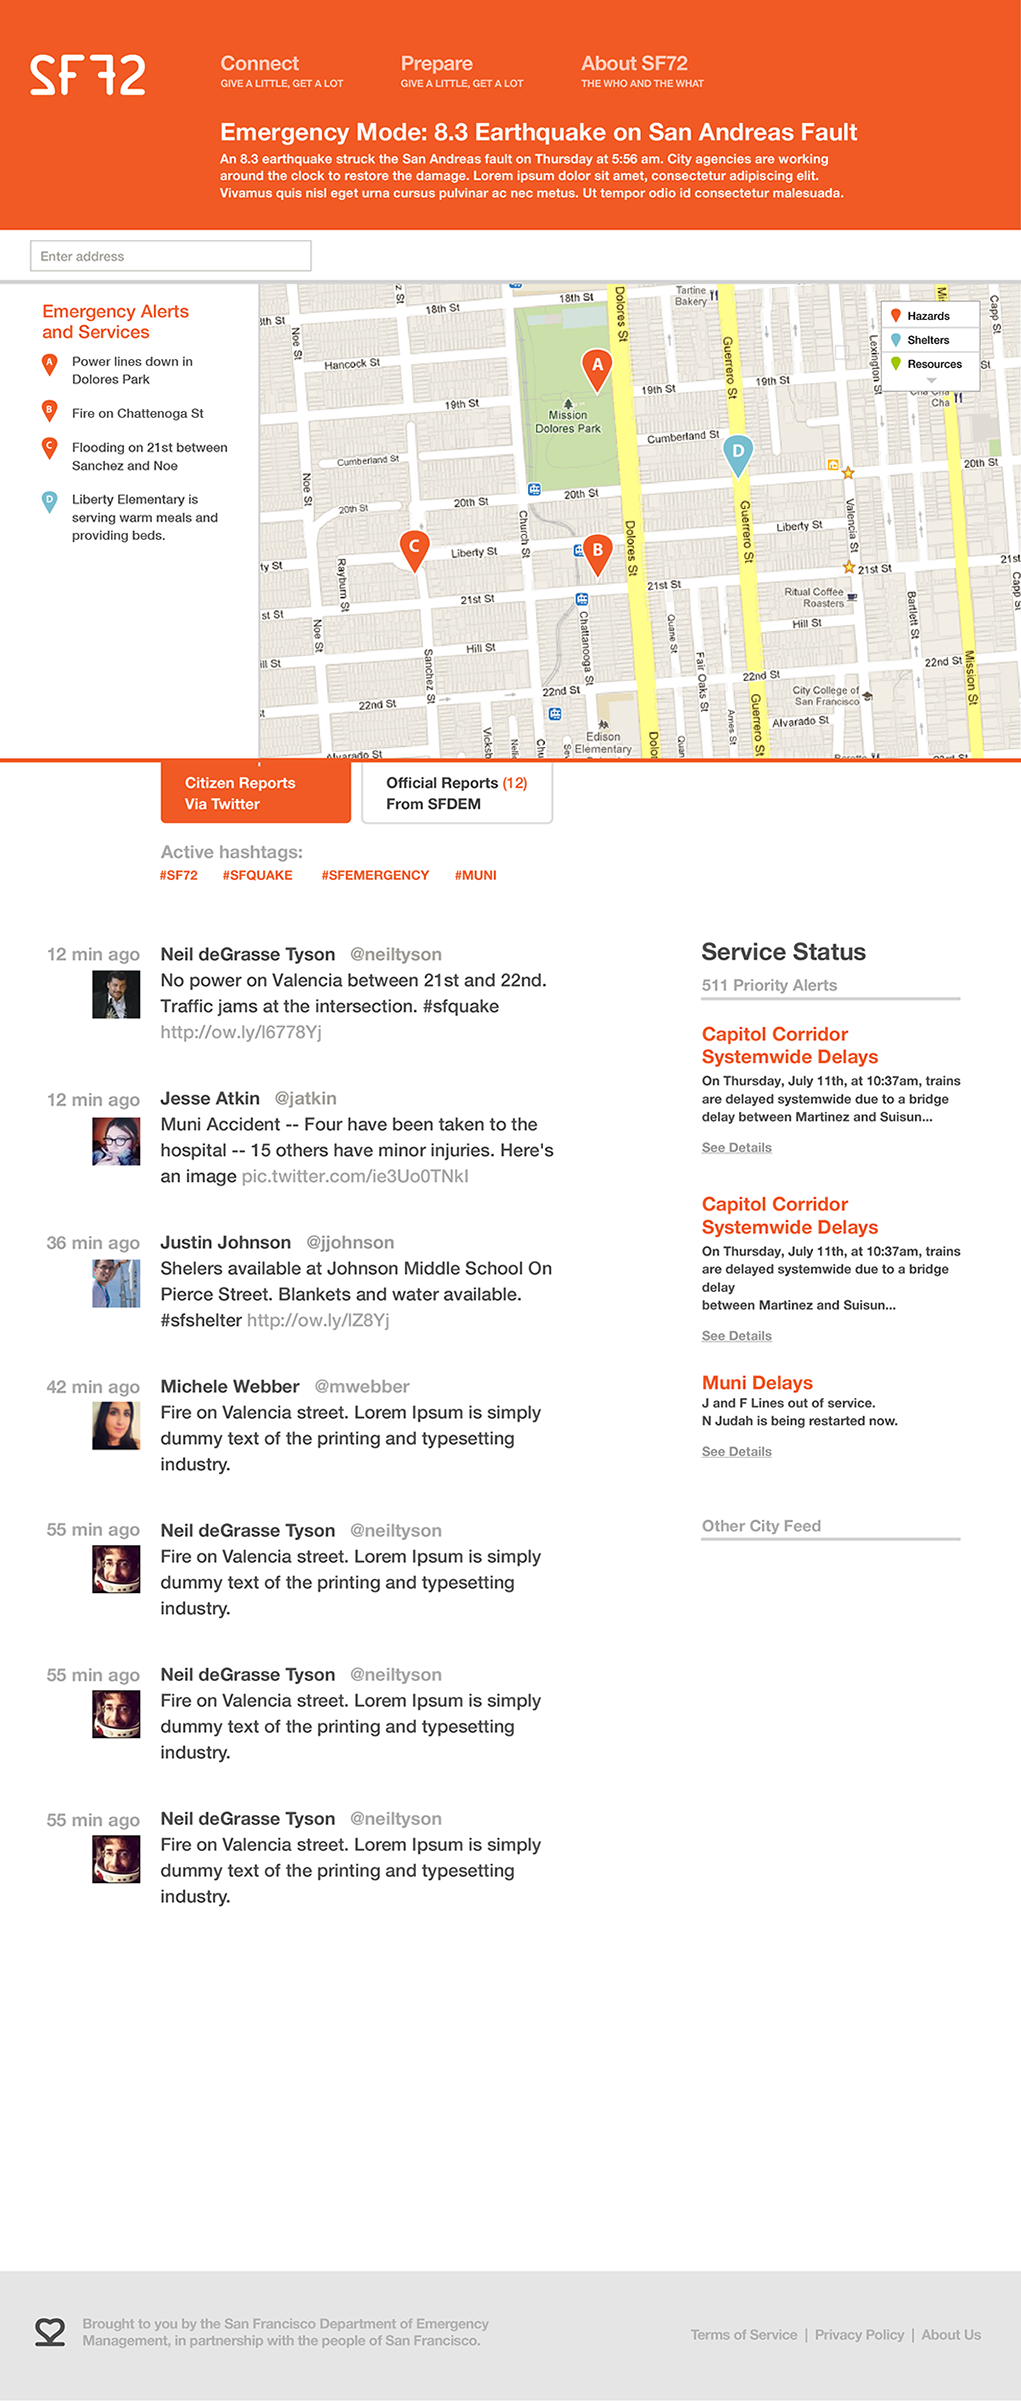
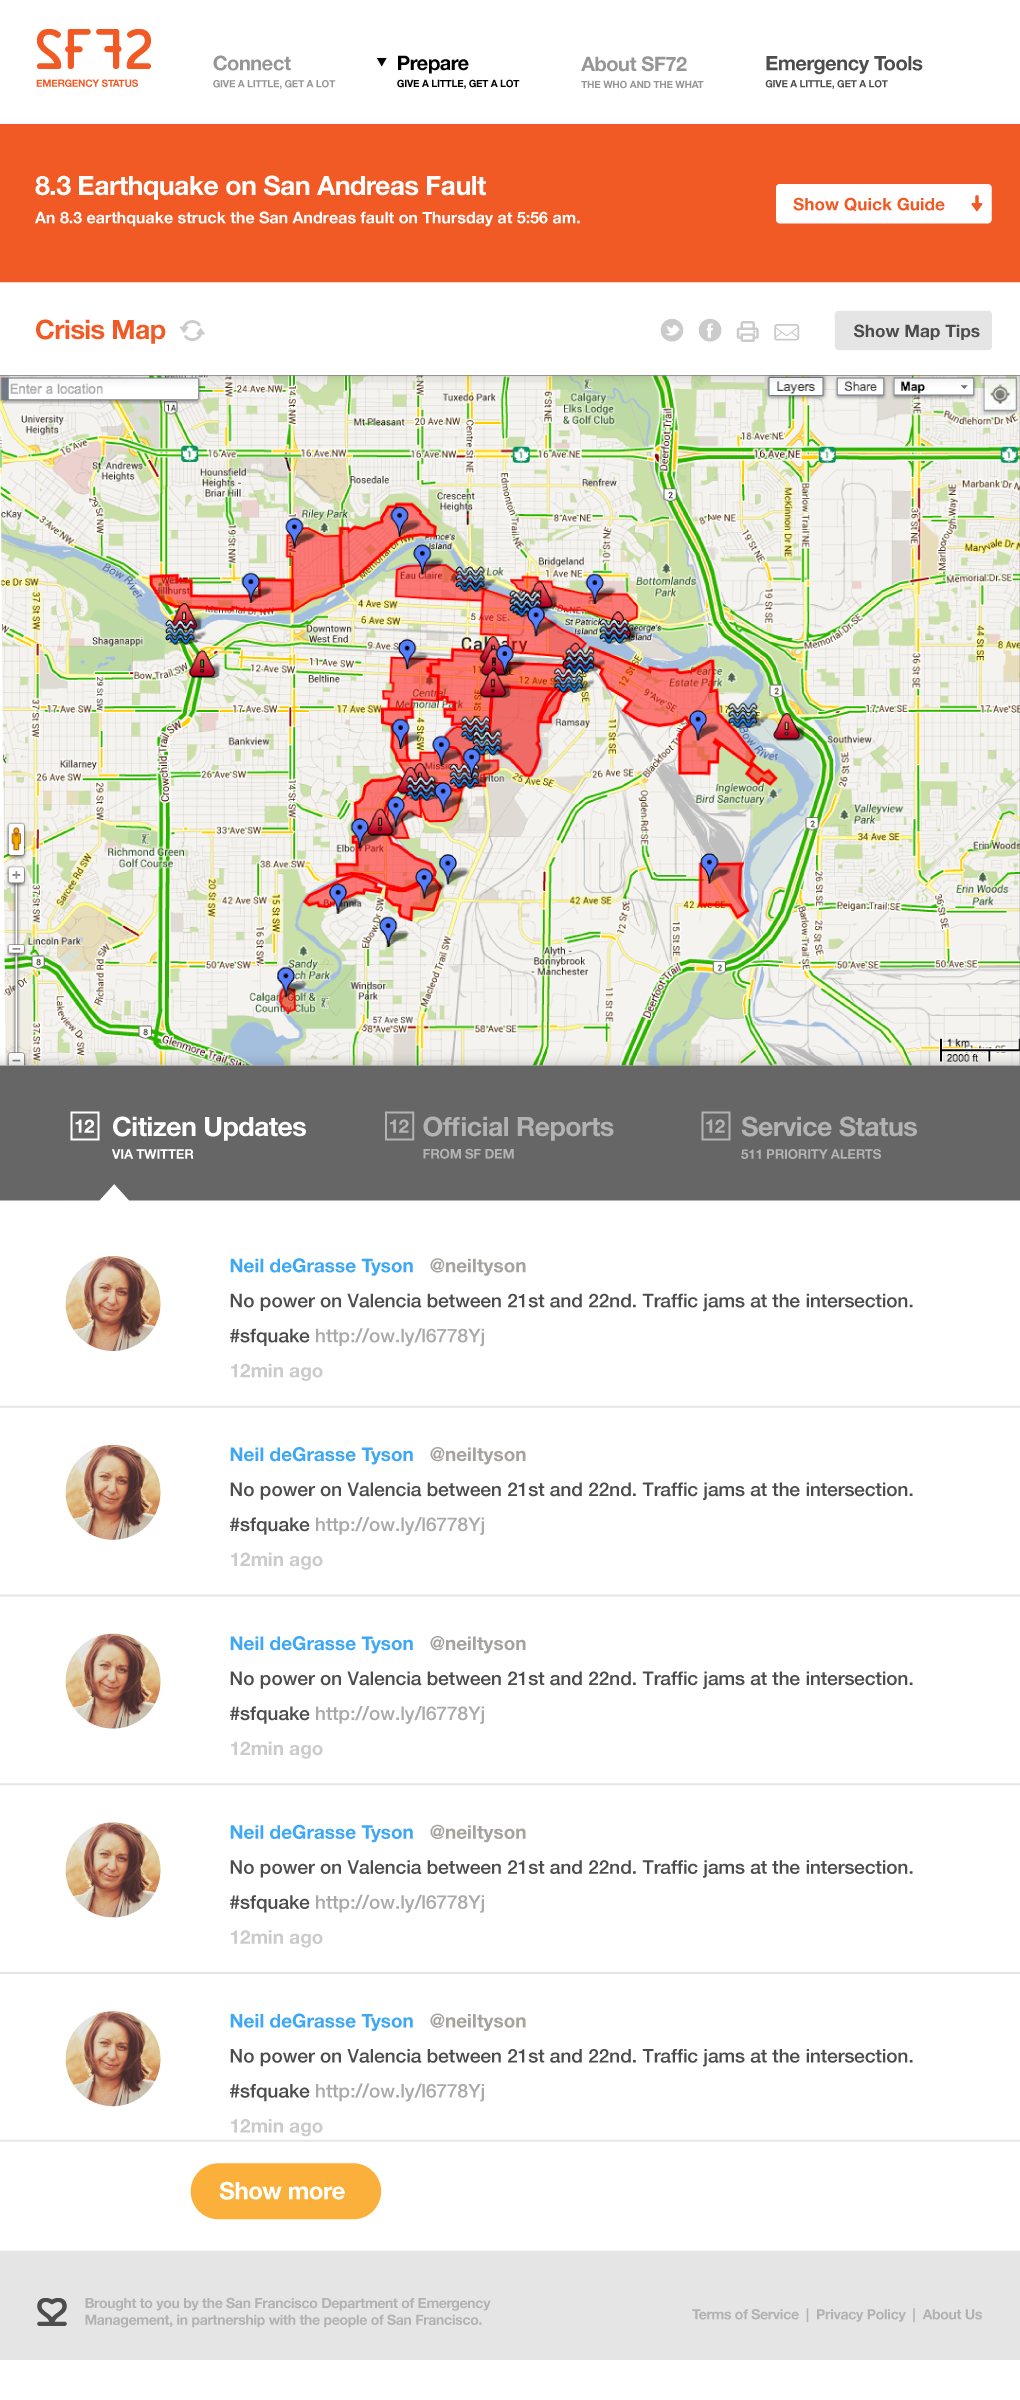
emergency mode screen - twitter stream

diff --git a/app/assets/stylesheets/application.scss b/app/assets/stylesheets/application.scss
@@ -78,6 +78,7 @@ body {
 
 .main-container {
 	@include outer-container;
+	width: 960px;
 }
 
 /* HEADER */
@@ -191,7 +192,7 @@ body {
 
 /* MOCKUP */
 /* .home { background: url(/assets/00-home.png) -30px 0; } */
-/* .home-em { background: url(/assets/01-home-em.png) center top no-repeat; } */
+/* .home-em { background: url(/assets/01-home-em.png) center -288px no-repeat; } */
 /* .connect { background: url(/assets/03-connect.png) -30px 0; } */
 /*.prepare { background: url(/assets/04a-prepare.png) -30px 0; } */
 /* .prepare-popup { background: url(/assets/04b-prepare-popup.png) center 0 no-repeat; } */
@@ -431,6 +432,7 @@ body {
 
 .wrapper {
 	@include outer-container;
+	width: 960px;
 }
 
 .em-header {
@@ -443,36 +445,39 @@ body {
 	background: $highlight-dark;
 	width: 100%;
 	z-index: 0;
+	margin: -0.9rem 0 0.1rem;
 
 	.wrapper {
-		padding: 0 5rem 0.9rem 0;
+		padding: 2.6rem 5rem 2.7rem 0;
+		position: relative;
 	}
 
 	h3 {
-		margin-bottom: 0;
+		margin: 0;
 	}
 
 	p {
 		margin-top: 0;
-		font-size: 0.9rem;
+		font-size: 1rem;
 		line-height: 1.25;
 	}
 
 	.alert-info {
-		@include span-columns(7);
+		@include span-columns(7.5);
 	}
 
 	.em-quick-guide-trigger {
-		@include span-columns(3);
-		@include shift(1);
+		position: absolute;
+		right: 0;
+		top: 2.6rem;
 
 		a {
 			cursor: pointer;
-			margin-top: 2rem;
+			margin-top: 1.1rem;
 			border-radius: 4px;
 			display: inline-block;
 			background-color: #FFF;
-			padding: 0.5rem 1rem;
+			padding: 0.5rem 3rem 0.5rem 1rem;
 			color: $highlight-dark;
 			font-family: $font-medium;
 		}
@@ -497,7 +502,7 @@ body {
 
 	.social-media {
 		@include shift(3);
-		padding-left: 0;
+		padding-left: 1.2rem;
 		margin-right: 1rem;
 		float: left;
 
@@ -505,11 +510,20 @@ body {
 			margin-right: 0.4rem;
 			font-size: 1.5rem;
 		}
+
+		span.icon-mail {
+			font-size: 0.8em;
+		}
+
+		span.icon-print {
+			font-size: 0.9em;
+		}
 	}
 
 	.map-tips-trigger {
 		display: inline-block;
-		padding: 0.5rem 1rem;
+		padding: 0.5rem 1.2rem;
+		margin-top: 0.3rem;
 		border-radius: 4px;
 		font-family: $font-medium;
 		background-color: $light-grey;
@@ -534,34 +548,53 @@ body {
 	width: 100%;
 }
 
-.updates {
-	@include span-columns(8)
-}
-
-.status {
-	@include span-columns(4)
-}
-
 .tw-tabs-container {
 	background-color: #666;
 
 }
 
 .tw-tabs {
-	padding-left: 8.2rem;
+	@include outer-container;
 	margin-top: 0;
-}
 
-.tw-tabs li { display: inline-block; }
+	li {
+	@include span-columns(4);
+	}
+}
 
 .tw-tabs a {
 	display: inline-block;
-	margin-right: 0.4rem;
-	padding: 1.8rem 1.4rem;
-	width: 12.1rem;
+	padding: 2.7rem 0 2.5rem 4.7rem;
 	font-family: $font-medium;
 	line-height: 1.3;
 	color: #FFF;
+	position: relative;
+	opacity: 0.5;
+
+	h3 {
+		font-size: 1.625rem;
+		margin: 0;
+	}
+
+	span {
+		font-size: 0.825rem;
+		text-transform: uppercase;
+
+	}
+
+	.updates-count {
+		position: absolute;
+		top: 2.85rem;
+		left: 2.1rem;
+		border: 2px solid;
+		padding: 0.2rem;
+		line-height: 1.2;
+	}
+}
+
+.tw-tabs a:hover,
+.tw-tabs .active a {
+	opacity: 1;
 }
 
 .active-hashtags {
@@ -582,51 +615,62 @@ body {
 }
 
 .stream {
-	@include outer-container;
-	margin-top: 3.4rem;
-
-	.tweet-meta {
-		@include span-columns(2.4);
-		text-align: right;
-		font-size: 1.1rem;
-		padding-right: 0.2rem;
-	}
+	margin-top: 1rem;
 
 	.tweet {
-		@include span-columns(9.6);	
+		@include outer-container;
+		margin-bottom: 0.5rem;
+		padding: 1.5rem 1rem;
+		border-bottom: 2px solid $light-grey;
 	}
 
-}
-
-.tweet-meta span {
-	display: block;
-	margin-bottom: 0.15rem;
-}
-
-.tweet {
-
-	padding-right: 6rem;
-
-	h4 {
-		line-height: 1.2;
+	.tweet-avatar {
+		@include span-columns(2.4);
+		text-align: center;
 		font-size: 1.1rem;
-		margin: 0.2rem 0 0.2rem;
-		color: $dark-grey;
+		padding-right: 0.2rem;
 
-		span {
-			color: $body-color;
+		img {
+			border-radius: 50%;
 		}
 	}
 
-	p {
-		margin-top: 0.2rem;
-		font-size: 1.2rem;
-		line-height: 1.4;
-		color: $dark-grey;
+	.tweet-body {
+		@include span-columns(9.6);	
+
+		h4 {
+			margin: 0rem 0 0.8rem;
+			line-height: 1;
+			font-family: $font-medium;
+			font-size: 1.1rem;
+			font-weight: normal;
+			
+			color: #3FA8F4;
+
+			span {
+				color: $mid-grey;
+			}
+		}
+
+		p {
+			margin-top: 0.2rem;
+			font-size: 1.2rem;
+			line-height: 1.4;
+			color: $dark-grey;
+		}
 	}
+
+	.date {
+		font-size: 1.1rem;
+		color: $mid-grey;
+	}
+
 }
 
+
+
 .status {
+	display: none;
 	margin-top: 4.1rem;
 	padding-left: 1rem;
 
